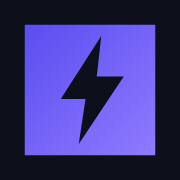
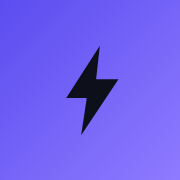
fix(ui): 图标去黑边、立绘读数瘦身、顶部预留状态栏
手机实机反馈三项修正。

① 图标一圈黑边
   - icon.svg 在紫色渐变块外还套了一圈 #0d0f1a 近黑，本机看着像深色描边，
     到启动器遮罩下就是一圈黑边 —— 改为紫色渐变满铺
   - 安卓自适应图标：background 由 #08090d 换成紫色渐变 drawable；
     foreground 改为「透明底 + 只画闪电 + 收进中心安全区」
     （原来是不透明方图叠近黑底，系统裁圆后必然露边）
   - legacy 图标（Android 7 及以下）改满铺/整圆；apple-touch-icon 改满铺版
     （iOS 自套超椭圆遮罩，自带圆角会「圆角套圆角」）
   - tools/gen-icons.js 收敛为图标唯一入口：一次写出 icon.svg + Web 4 张
     + 安卓 5 密度×3 张 + 自适应图标 XML，两边同源不会再漂移；
     DSF 由写死的 0.25 改为 size/win，修掉小尺寸被 --window-size 钳制的问题

② 立绘下方读数瘦身
   - 原三行（身高/体重/肌肉 · 发型/衣橱件数 · 今日饮水/距上次）在窄屏上把立绘压得很碎，
     现只留一行「身高 / 体重 / 发型」—— 饮水与衣橱在各自面板都有完整视图
   - 删掉仅供它使用的 todayMl() / lastDrink()

③ 顶部预留系统状态栏
   - 安卓的 WebView 与独立应用 env(safe-area-inset-top) 恒为 0，
     而系统状态栏照样占着最上面一条 —— 页头被压住
   - #main 顶部改 calc(var(--s4) + max(var(--sa-t), 30px))，全屏那条再 +10px
   - verify-wiring 的「全屏留白兜底」断言放宽写法：原先只认
     var(--sa-t)…+…px 的加法形式，max() 写法会被误判成没兜底（要求未变）

校验：verify-portrait 36 项 / verify-wiring / verify-migrate 41 项 /
browser-check 87 项 全绿（全屏层叠实测 46px → 56px）
sw 缓存 v11 → v12

diff --git a/tools/gen-icons.js b/tools/gen-icons.js
@@ -1,12 +1,14 @@
 /* ============================================================
-   图标生成：把 icon.svg 渲染成 PWA 所需的 PNG 尺寸
+   图标生成：从同一套 SVG 源图，渲染出 Web 与安卓两边的全部图标
    ------------------------------------------------------------
    为什么需要这一步：
    ① iOS 的 apple-touch-icon **不认 SVG** —— Safari 会退化成白块或网页截图；
    ② 安卓各版本对 SVG 图标的支持不一致，可能直接让「添加到主屏幕」不可用；
-   ③ maskable 图标要求内容落在中心安全区内，直接拿原图会被系统裁掉边缘。
-   做法：借本机已有的 Chromium 内核浏览器（Edge / Chrome）无头渲染 SVG 再截图，
-   **不引入任何新依赖**（不装 sharp / cairosvg 之类）。
+   ③ maskable / 自适应图标要求内容落在中心安全区内，直接拿原图会被系统裁掉边缘。
+
+   为什么 Web 和安卓放在同一个脚本里：
+   图标只有**一份设计**，两边必须永远一致 —— 分成两个脚本迟早会漂移
+   （改了一边忘了另一边，而且从界面上很难看出）。
    跑法：node tools/gen-icons.js
    ============================================================ */
 const fs = require('fs');
@@ -15,29 +17,61 @@ const path = require('path');
 const { execFileSync } = require('child_process');
 
 const ROOT = path.join(__dirname, '..');
+const ANDROID_RES = path.join(ROOT, 'android-pack', 'res');
 const TMP = fs.mkdtempSync(path.join(os.tmpdir(), 'gl-icon-'));
 
-/* 原图：带圆角，用于 purpose: any（系统不会二次裁切，自己带圆角更精致） */
-const SRC_PLAIN = path.join(ROOT, 'icon.svg');
-
-/* 满铺版：底色铺满整块、内容缩到 80% 居中、不带圆角。
-   Windows / Android 会把它裁成圆形或不规则形状，圆角与留白必须由系统来做，
-   自己带圆角会变成「圆角套圆角」。 */
-const MASK_SVG = `<svg xmlns="http://www.w3.org/2000/svg" viewBox="0 0 512 512">
-  <defs>
+/* ---------- 唯一的一份图形定义 ---------- */
+const BOLT = '296,64 152,288 240,288 216,448 376,208 280,208';
+const GRADIENT = `  <defs>
     <linearGradient id="bg" x1="0" y1="0" x2="1" y2="1">
       <stop offset="0" stop-color="#5b4df0"/>
       <stop offset="1" stop-color="#8f7bff"/>
     </linearGradient>
-  </defs>
-  <rect width="512" height="512" fill="#0d0f1a"/>
-  <g transform="translate(256,256) scale(0.8) translate(-256,-256)">
-    <rect x="24" y="24" width="464" height="464" rx="0" fill="url(#bg)"/>
-    <polygon points="296,64 152,288 240,288 216,448 376,208 280,208" fill="#0d0f1a"/>
+  </defs>`;
+
+/* 圆角版 —— Web 的 purpose:any。系统不会二次裁切，自己带圆角更精致。
+   ⚠ 这里**只有一种颜色**：早先外面还套了一圈 #0d0f1a 近黑描边，
+   在本机看着像精致的深色边框，到了手机启动器的遮罩下就变成一圈显眼的「黑边」。 */
+const SVG_ROUNDED = `<svg xmlns="http://www.w3.org/2000/svg" viewBox="0 0 512 512">
+${GRADIENT}
+  <rect width="512" height="512" rx="112" fill="url(#bg)"/>
+  <polygon points="${BOLT}" fill="#0d0f1a"/>
+</svg>`;
+
+/* 满铺版 —— maskable / 安卓 legacy / apple-touch。
+   底色必须铺满整块且不能再有第二种颜色：系统会按自己的形状裁切，
+   底色与内容之间一旦夹了别的颜色，裁完就是一圈边。 */
+const SVG_FULL = `<svg xmlns="http://www.w3.org/2000/svg" viewBox="0 0 512 512">
+${GRADIENT}
+  <rect width="512" height="512" fill="url(#bg)"/>
+  <g transform="translate(256,256) scale(0.66) translate(-256,-256)">
+    <polygon points="${BOLT}" fill="#0d0f1a"/>
   </g>
 </svg>`;
-const SRC_MASK = path.join(TMP, 'mask.svg');
-fs.writeFileSync(SRC_MASK, MASK_SVG, 'utf8');
+
+/* 圆形版 —— 安卓 legacy round（圆形启动器直接用这张） */
+const SVG_CIRCLE = `<svg xmlns="http://www.w3.org/2000/svg" viewBox="0 0 512 512">
+${GRADIENT}
+  <circle cx="256" cy="256" r="256" fill="url(#bg)"/>
+  <g transform="translate(256,256) scale(0.6) translate(-256,-256)">
+    <polygon points="${BOLT}" fill="#0d0f1a"/>
+  </g>
+</svg>`;
+
+/* 前景层 —— 自适应图标（Android 8+）。**必须透明**：
+   底色由 background 层提供，前景只画闪电；内容收进中心安全区（108dp 里 72dp 直径）。
+   闪电原始高度占 512 的 75%，缩到 0.8 → 占 60%，落在安全区内。 */
+const SVG_FOREGROUND = `<svg xmlns="http://www.w3.org/2000/svg" viewBox="0 0 512 512">
+  <g transform="translate(256,256) scale(0.8) translate(-256,-256)">
+    <polygon points="${BOLT}" fill="#0d0f1a"/>
+  </g>
+</svg>`;
+
+function writeSvg(name, content) {
+  const p = path.join(TMP, name);
+  fs.writeFileSync(p, content, 'utf8');
+  return p;
+}
 
 function findBrowser() {
   const cands = [
@@ -58,19 +92,22 @@ function findBrowser() {
    两个坑，都踩过：
    ① 相对路径的 --screenshot 不落在当前目录，而是浏览器自己的工作目录 —— 必须传绝对路径。
    ② --window-size 有**最小尺寸钳制**（远小于 500px 会被顶到最小值），
-      于是「--window-size=192,192」实际渲染的是 ~500px 视口，截图只取左上角一小块，
+      于是「--window-size=48,48」实际渲染的是 ~500px 视口，截图只取左上角一小块，
       产出的是一张废图（而且文件很小、不报错）。
-   解法：窗口开成目标的 4 倍（≥720px，稳稳超过钳制），再用 --force-device-scale-factor=0.25
-   缩回来 —— 输出像素 = CSS 尺寸 × DSF，正好等于目标尺寸，且内容完整等比缩放。
+   解法：窗口一律开到 800px 以上（稳过钳制），再用 --force-device-scale-factor 缩回来。
+   输出像素 = CSS 窗口尺寸 × DSF，所以 DSF 取 size/win，而不是写死的 0.25
+   —— 安卓有 48px 这种小图，4 倍窗口也才 192px，仍会被钳制。
    --virtual-time-budget 也必须给：否则可能在 SVG 绘制完成前就截图，得到空白图。 */
 function shoot(srcSvg, out, size) {
+  const win = Math.max(800, size * 2);
+  const dsf = size / win;
   execFileSync(findBrowser(), [
     '--headless',
     '--disable-gpu',
     '--hide-scrollbars',
-    '--force-device-scale-factor=0.25',
+    '--force-device-scale-factor=' + dsf,
     '--virtual-time-budget=2000',
-    '--window-size=' + (size * 4) + ',' + (size * 4),
+    '--window-size=' + win + ',' + win,
     '--screenshot=' + out,
     'file:///' + srcSvg.replace(/\\/g, '/'),
   ], { stdio: 'ignore' });
@@ -83,29 +120,101 @@ function pngSize(file) {
   return { w: b.readUInt32BE(16), h: b.readUInt32BE(20), bytes: b.length };
 }
 
-const JOBS = [
-  ['icon-192.png',            192, SRC_PLAIN, 'purpose: any'],
-  ['icon-512.png',            512, SRC_PLAIN, 'purpose: any'],
-  ['icon-maskable-512.png',   512, SRC_MASK,  'purpose: maskable'],
-  ['apple-touch-icon.png',    180, SRC_MASK,  'iOS 主屏幕图标'],
+const SRC_ROUNDED = writeSvg('rounded.svg', SVG_ROUNDED);
+const SRC_FULL = writeSvg('full.svg', SVG_FULL);
+const SRC_CIRCLE = writeSvg('circle.svg', SVG_CIRCLE);
+const SRC_FOREGROUND = writeSvg('foreground.svg', SVG_FOREGROUND);
+
+/* icon.svg 本身也是产物：它是浏览器标签页 favicon 的源。
+   由本脚本写出去，才能保证它与 icon-192/512.png 永远同源 —— 改设计只改上面那一处。 */
+fs.writeFileSync(path.join(ROOT, 'icon.svg'), SVG_ROUNDED, 'utf8');
+
+/* ---------- Web 端 4 张 ---------- */
+const WEB_JOBS = [
+  ['icon-192.png', 192, SRC_ROUNDED, 'purpose: any'],
+  ['icon-512.png', 512, SRC_ROUNDED, 'purpose: any'],
+  ['icon-maskable-512.png', 512, SRC_FULL, 'purpose: maskable'],
+  // iOS 会给图标套自己的超椭圆遮罩，所以必须交满铺版：
+  // 自带圆角会「圆角套圆角」，外圈还容易露出异色边
+  ['apple-touch-icon.png', 180, SRC_FULL, 'iOS 主屏幕图标'],
 ];
 
+/* ---------- 安卓端：5 个密度 × 3 张 ----------
+   尺寸必须与 Capacitor 模板原图**完全一致**（prepare-android.js 会逐个断言），
+   换算关系：launcher = 48×d，foreground = 108×d，round = 48×d */
+const DENSITIES = [['mdpi', 1], ['hdpi', 1.5], ['xhdpi', 2], ['xxhdpi', 3], ['xxxhdpi', 4]];
+const ANDROID_JOBS = [];
+for (const [d, k] of DENSITIES) {
+  ANDROID_JOBS.push([`mipmap-${d}/ic_launcher.png`, 48 * k, SRC_FULL, '启动器图标（Android 7-）']);
+  ANDROID_JOBS.push([`mipmap-${d}/ic_launcher_round.png`, 48 * k, SRC_CIRCLE, '圆形启动器图标']);
+  ANDROID_JOBS.push([`mipmap-${d}/ic_launcher_foreground.png`, 108 * k, SRC_FOREGROUND, '自适应图标前景层']);
+}
+
 let fail = 0;
-console.log('--- 生成图标 ---');
-for (const [name, size, src, why] of JOBS) {
-  const out = path.join(ROOT, name);
-  try {
-    shoot(src, out, size);
-    const got = pngSize(out);
-    const ok = got.w === size && got.h === size;
-    if (!ok) fail++;
-    console.log(`${ok ? '✓' : '✗'} ${name.padEnd(24)} ${got.w}×${got.h}  ${(got.bytes / 1024).toFixed(1)}KB  (${why})`);
-  } catch (e) {
-    fail++;
-    console.log(`✗ ${name.padEnd(24)} 失败：${e.message}`);
+function run(jobs, baseDir, label) {
+  console.log(`--- ${label} ---`);
+  for (const [name, size, src, why] of jobs) {
+    const out = path.join(baseDir, name);
+    try {
+      fs.mkdirSync(path.dirname(out), { recursive: true });
+      shoot(src, out, size);
+      const got = pngSize(out);
+      const ok = got.w === size && got.h === size;
+      if (!ok) fail++;
+      console.log(`${ok ? '✓' : '✗'} ${name.padEnd(42)} ${got.w}×${got.h}  ${(got.bytes / 1024).toFixed(1)}KB  (${why})`);
+    } catch (e) {
+      fail++;
+      console.log(`✗ ${name.padEnd(42)} 失败：${e.message}`);
+    }
   }
+  console.log('');
+}
+
+run(WEB_JOBS, ROOT, '生成图标 · Web');
+run(ANDROID_JOBS, ANDROID_RES, '生成图标 · 安卓');
+
+/* ---------- 安卓的 XML 资源（与上面的 PNG 同源，一起生成，避免手改漂移） ---------- */
+const XML = {
+  'values/ic_launcher_background.xml': `<?xml version="1.0" encoding="utf-8"?>
+<resources>
+    <!-- 自适应图标背景层的**纯色兜底**。真正的渐变在 drawable/ic_launcher_background.xml，
+         这里留一个同名 color 资源，以防模板别处按 @color/ic_launcher_background 引用。 -->
+    <color name="ic_launcher_background">#6C5CF3</color>
+</resources>
+`,
+  'drawable/ic_launcher_background.xml': `<?xml version="1.0" encoding="utf-8"?>
+<!-- 自适应图标的背景层：与 icon.svg 同一套紫色渐变。
+     早先这里是 #08090d 近黑 —— 系统把图标裁成圆形后，圆内是近黑底、中间一块紫色，
+     看起来就是「一圈黑边」（用户实机反馈）。改成渐变铺满后，
+     无论系统用圆、圆角方还是水滴形遮罩，边缘都不会再露出第二种颜色。 -->
+<shape xmlns:android="http://schemas.android.com/apk/res/android"
+    android:shape="rectangle">
+    <gradient
+        android:angle="315"
+        android:startColor="#5B4DF0"
+        android:endColor="#8F7BFF"
+        android:type="linear" />
+</shape>
+`,
+  'mipmap-anydpi-v26/ic_launcher.xml': `<?xml version="1.0" encoding="utf-8"?>
+<!-- 自适应图标（Android 8+）：渐变背景层 + 只含闪电的透明前景层。
+     这两层分层是关键 —— 合成后是一张「紫底闪电」，而不是把一张带底色的方图塞进圆形遮罩。 -->
+<adaptive-icon xmlns:android="http://schemas.android.com/apk/res/android">
+    <background android:drawable="@drawable/ic_launcher_background" />
+    <foreground android:drawable="@mipmap/ic_launcher_foreground" />
+</adaptive-icon>
+`,
+};
+XML['mipmap-anydpi-v26/ic_launcher_round.xml'] = XML['mipmap-anydpi-v26/ic_launcher.xml'];
+
+console.log('--- 生成图标 · 安卓 XML ---');
+for (const [rel, content] of Object.entries(XML)) {
+  const out = path.join(ANDROID_RES, rel);
+  fs.mkdirSync(path.dirname(out), { recursive: true });
+  fs.writeFileSync(out, content, 'utf8');
+  console.log(`✓ ${rel}`);
 }
 
 fs.rmSync(TMP, { recursive: true, force: true });
-console.log(fail ? `\n${fail} 个图标生成失败` : '\n全部图标生成成功');
+console.log(fail ? `\n${fail} 张图标生成失败` : '\n全部图标生成成功');
 process.exit(fail ? 1 : 0);

diff --git a/css/style.css b/css/style.css
@@ -865,9 +865,15 @@ input[type="range"] { flex: 1; accent-color: var(--accent); height: 30px; }
   }
   .tab.active::after { display: none; }
   /* 底部留白 = 标签栏高度 + 安全区，否则最后一屏内容会被悬浮栏压住 */
-  /* 顶部同样让开安全区：iOS 的 black-translucent 状态栏是浮在页面之上的，
-     不让开的话页头会被时间/电量压住（安卓为 0，无副作用） */
-  #main { padding: calc(var(--s4) + var(--sa-t)) calc(var(--s4) + var(--sa-r)) calc(112px + var(--sa-b)) calc(var(--s4) + var(--sa-l)); }
+  /* 顶部固定预留「系统状态栏」的高度。
+     为什么不能只靠 --sa-t：
+     ① iOS 的 black-translucent 状态栏浮在页面之上，env() 有值，但只有 iOS 给；
+     ② 安卓的 WebView / 独立应用一律返回 0（安卓不进 safe-area 插值），
+        而系统状态栏（时间 / 电量）照样占着最上面一条 —— 页头就被压住了；
+     ③ 浏览器标签页里地址栏是自动隐藏的，页头贴着顶同样难看。
+     故取 max(env, 30px)：iOS 用手势/刘海实测值，其余环境兜底 30px（≈安卓状态栏高度）。
+     全屏那条规则在此之上还要再多 10px（见文件末尾），所以两者不会互相抵消。 */
+  #main { padding: calc(var(--s4) + max(var(--sa-t), 30px)) calc(var(--s4) + var(--sa-r)) calc(112px + var(--sa-b)) calc(var(--s4) + var(--sa-l)); }
   .hud { grid-template-columns: 1fr; gap: var(--s4); }
   .stage { min-height: 380px; }
   .hud-bar { padding: var(--s4); gap: var(--s3); }
@@ -897,12 +903,16 @@ input[type="range"] { flex: 1; accent-color: var(--accent); height: 30px; }
 }
 
 /* ============ 全屏启动（安卓 WebAPK）============
-   manifest 的 display 为 fullscreen，系统状态栏会被隐藏：页面直接顶到屏幕
-   最上沿，且此时 env(safe-area-inset-top) 为 0（没有东西挡着了，系统不再让位）。
-   光靠 --sa-t 会让页头贴着屏幕边缘，这里补一条固定留白。
+   manifest 的 display 为 fullscreen，系统状态栏被隐藏：页面直接顶到屏幕最上沿，
+   此时 env(safe-area-inset-top) 为 0（没有东西挡着了，系统不再让位）。
+   即便如此也要留住那一条空白 —— 页头贴着屏幕边缘很难看（用户明确要求"预留"）。
+   这里比窄屏常态**再多 10px**：常态下上方总有东西占位（浏览器地址栏 / 系统状态栏），
+   全屏是真的什么都没有了，多留一点视觉上才不局促。
+   也正因为这个差值，browser-check 能实测出「这条规则确实参与了层叠」——
+   两处取值完全相同的话，它就退化成一条永远不生效的冗余规则了。
    standalone（iOS）与桌面浏览器标签页都不匹配此查询，不受影响。 */
 @media (display-mode: fullscreen) {
-  #main { padding-top: calc(var(--s4) + var(--sa-t) + 10px); }
+  #main { padding-top: calc(var(--s4) + max(var(--sa-t), 30px) + 10px); }
   /* 全屏下底部手势条仍然存在，底部留白沿用 --sa-b 即可 */
 }
 

diff --git a/tools/verify-wiring.js b/tools/verify-wiring.js
@@ -162,7 +162,12 @@ if (!/display-mode:\s*fullscreen/.test(css)) {
     'css 缺少 @media (display-mode: fullscreen) 的顶部留白兜底 —— ' +
     '全屏时系统状态栏被隐藏，env(safe-area-inset-top) 归零，页头会直接贴到屏幕最上沿',
   );
-} else if (/padding-top:[^;]*var\(--sa-t\)[^;]*\+[^;]*px|padding-top:[^;]*px[^;]*\+[^;]*var\(--sa-t\)/.test(css.match(/@media \(display-mode: fullscreen\)[\s\S]*?\n\}/)?.[0] || '')) {
+} else if (/padding-top:[^;]*var\(--sa-t\)[^;]*[\d.]+px|padding-top:[^;]*[\d.]+px[^;]*var\(--sa-t\)/.test(css.match(/@media \(display-mode: fullscreen\)[\s\S]*?\n\}/)?.[0] || '')) {
+  /* 判据 = 「padding-top 里同时出现 var(--sa-t) 和一个固定 px 值」，顺序不限、也不要求用 + 连接。
+     早先写的是 `var(--sa-t)…+…px`，只认加法；后来改成
+     `calc(var(--s4) + max(var(--sa-t), 30px))` —— 语义一样（保底 30px），
+     但它没有 `+` 落在两者之间，旧正则就误判成"没有兜底"。
+     放宽的是**写法**，不是**要求**：必须同时有安全区变量和固定 px，缺一仍然报错。 */
   ok.push('全屏模式下页头留白兜底就位（--sa-t 归零时仍有固定留白）');
 } else {
   problems.push('全屏媒体查询里没看到「固定留白 + --sa-t」的组合，状态栏隐藏后页头可能贴边');
@@ -181,7 +186,7 @@ if (/fonts\.(googleapis|gstatic)\.com/.test(html)) {
 }
 
 const swVer = (sw.match(/gamelife-v(\d+)/) || [])[1];
-const MIN_SW_VER = 11;   // v1.7.1：全屏启动（display: fullscreen）+ 页头安全区，资源有变必须 ≥ v11
+const MIN_SW_VER = 12;   // v1.7.4：图标去黑边（Web + 安卓）+ 立绘读数精简 + 顶部状态栏预留，资源有变必须 ≥ v12
 if (swVer && Number(swVer) >= MIN_SW_VER) ok.push(`sw.js 缓存版本已升到 v${swVer}（≥ v${MIN_SW_VER}）`);
 else problems.push(`sw.js 缓存版本过低（当前 v${swVer || '?'}，需 ≥ v${MIN_SW_VER}）—— 改了资源必须升版，否则用户浏览器里的旧缓存不会刷新，页面会停留在旧版本`);
 

diff --git a/js/app.js b/js/app.js
@@ -2,19 +2,10 @@
 (function () {
   'use strict';
 
-  const APP_VERSION = '1.7.1';
+  const APP_VERSION = '1.7.4';
   GL.VERSION = APP_VERSION;
 
-  /* ---------- 工具：今日饮水 ---------- */
-  function todayMl() {
-    const k = GL.todayKey(Date.now());
-    return GL.state.physiology.hydration.logs
-      .filter((l) => GL.todayKey(l.t) === k).reduce((s, l) => s + l.ml, 0);
-  }
-  function lastDrink() {
-    const logs = GL.state.physiology.hydration.logs;
-    return logs.length ? logs[logs.length - 1].t : null;
-  }
+  /* ---------- 记录天数 ---------- */
   function recordDays() {
     const days = new Set();
     const add = (arr) => (arr || []).forEach((x) => days.add(GL.todayKey(x.t)));
@@ -44,15 +35,18 @@
   }
 
   /* ---------- 舞台底部读数 ---------- */
+  /* 只留「体型 + 发型」。
+     原本这里是三行：身高/体重/肌肉、发型/衣橱件数、今日饮水/距上次。
+     窄屏上三行读数把立绘压得很碎（用户反馈"很乱"），而且信息本就在别处有完整视图：
+     饮水在生理面板、衣橱在「体型与衣橱」面板、肌肉量在属性/生理里。
+     这里作为舞台的注脚，只保留一眼能核对体型的两项 + 发型即可。 */
   function renderStageBase() {
     const el = document.getElementById('stage-base');
     if (!el) return;
     const a = GL.state.avatar;
     const style = HAIR_NAMES[a.hairStyle] || a.hairStyle;
     el.innerHTML = `
-      <span>身高 <b>${a.height}</b>cm · 体重 <b>${a.weight}</b>kg · 肌肉 <b>${a.muscle}</b></span>
-      <span>发型 <b>${style}</b> · 衣橱 <b>${(a.wardrobe || []).length}</b> 件</span>
-      <span>今日饮水 <b>${todayMl()}</b>ml · 距上次 <b>${lastDrink() ? GL.fmtRel(lastDrink()) : '未记录'}</b></span>`;
+      <span>身高 <b>${a.height}</b>cm · 体重 <b>${a.weight}</b>kg · 发型 <b>${style}</b></span>`;
   }
 
   const HAIR_NAMES = { short: '短发', buzz: '寸头', long: '长发', ponytail: '马尾', bald: '光头' };

diff --git a/sw.js b/sw.js
@@ -1,6 +1,13 @@
 /* ============================================================
    Service Worker · 离线缓存
    ------------------------------------------------------------
+   v12 的改动：
+   ① 「去黑边」—— icon.svg / 四个 Web 图标 / 安卓全部图标重做：
+      原先紫色块外面还套了一圈 #0d0f1a 近黑，在启动器的圆形遮罩下就是一圈黑边。
+   ② 安卓图标改由 tools/gen-icons.js 与 Web 图标**同源生成**（5 密度 × 3 张 + 自适应 XML）。
+   ③ 立绘下方读数精简、手机端顶部预留系统状态栏。
+   三者都改了前端资源 → 必须升版，否则用户拿到的是旧图标 + 旧布局。
+
    v10 的改动：
    ① 字体本地化后，页面已**零跨域请求**，于是删掉了原「CDN 资源网络优先」那条分支
       —— 留着它只会在断网或域名不可达时多等一次失败。
@@ -11,7 +18,7 @@
    改任何前端资源都必须升 CACHE 版本号，否则用户浏览器里的旧缓存会继续供应旧文件，
    表现为「我明明修好了，他打开还是坏的」。
    ============================================================ */
-const CACHE = 'gamelife-v11';
+const CACHE = 'gamelife-v12';
 
 const ASSETS = [
   './',
